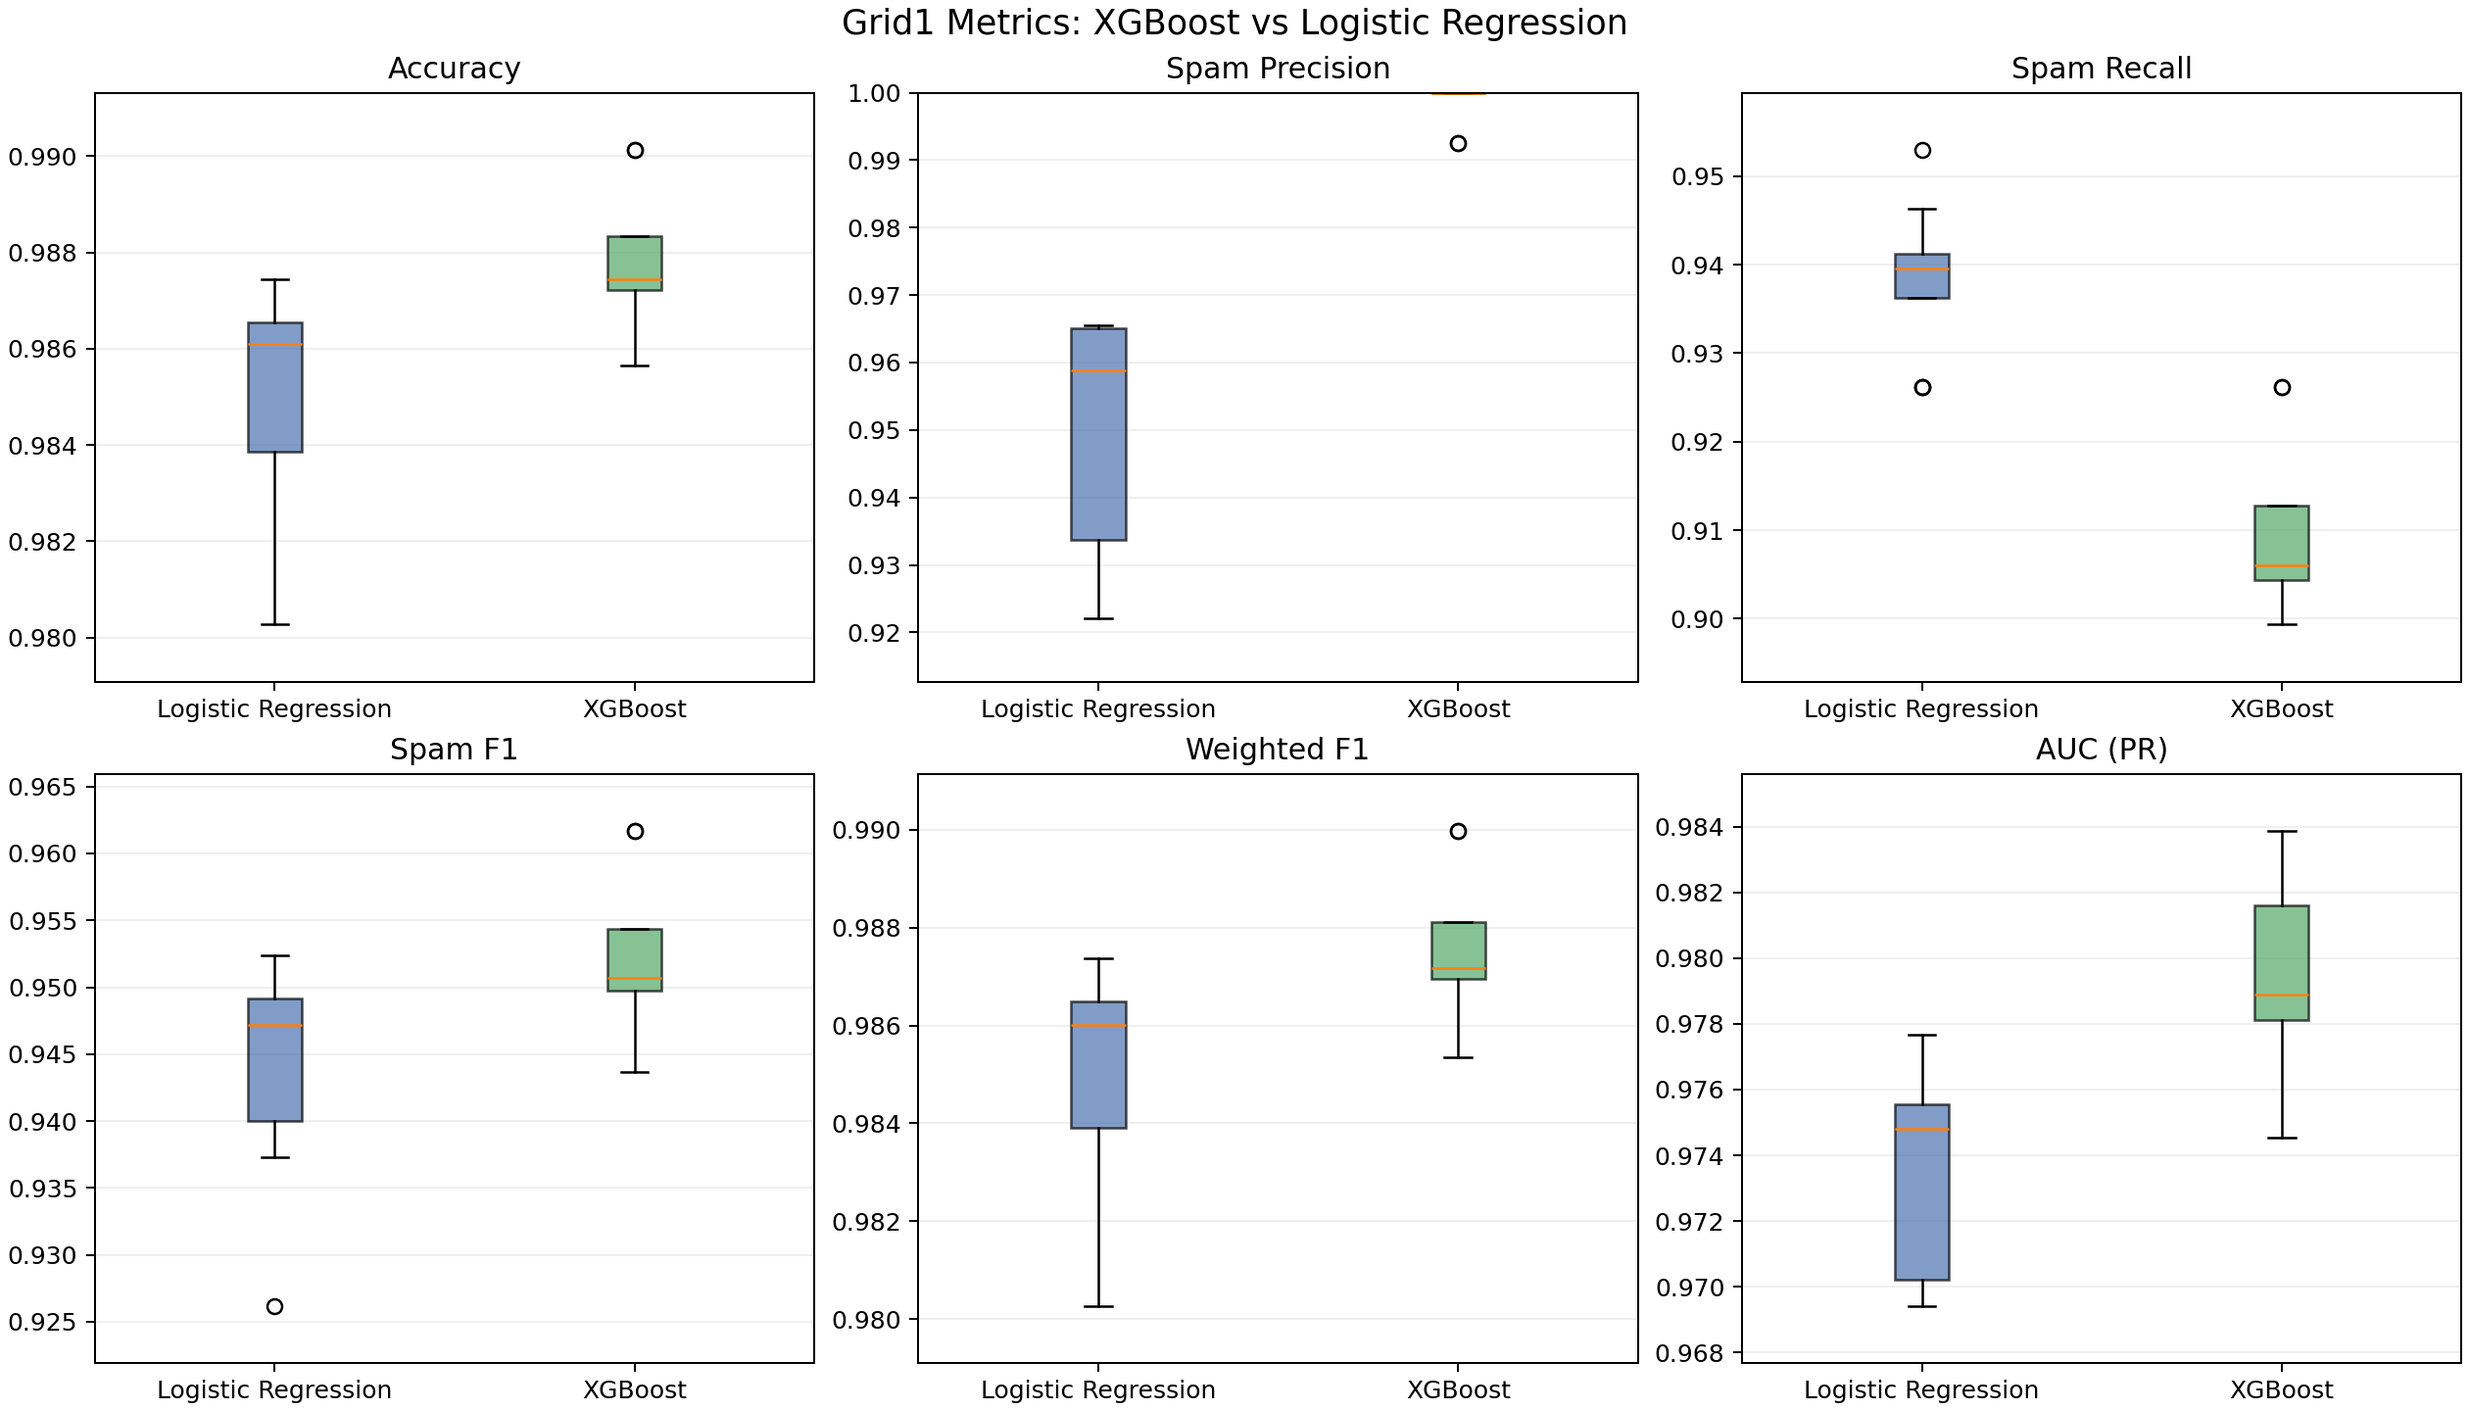
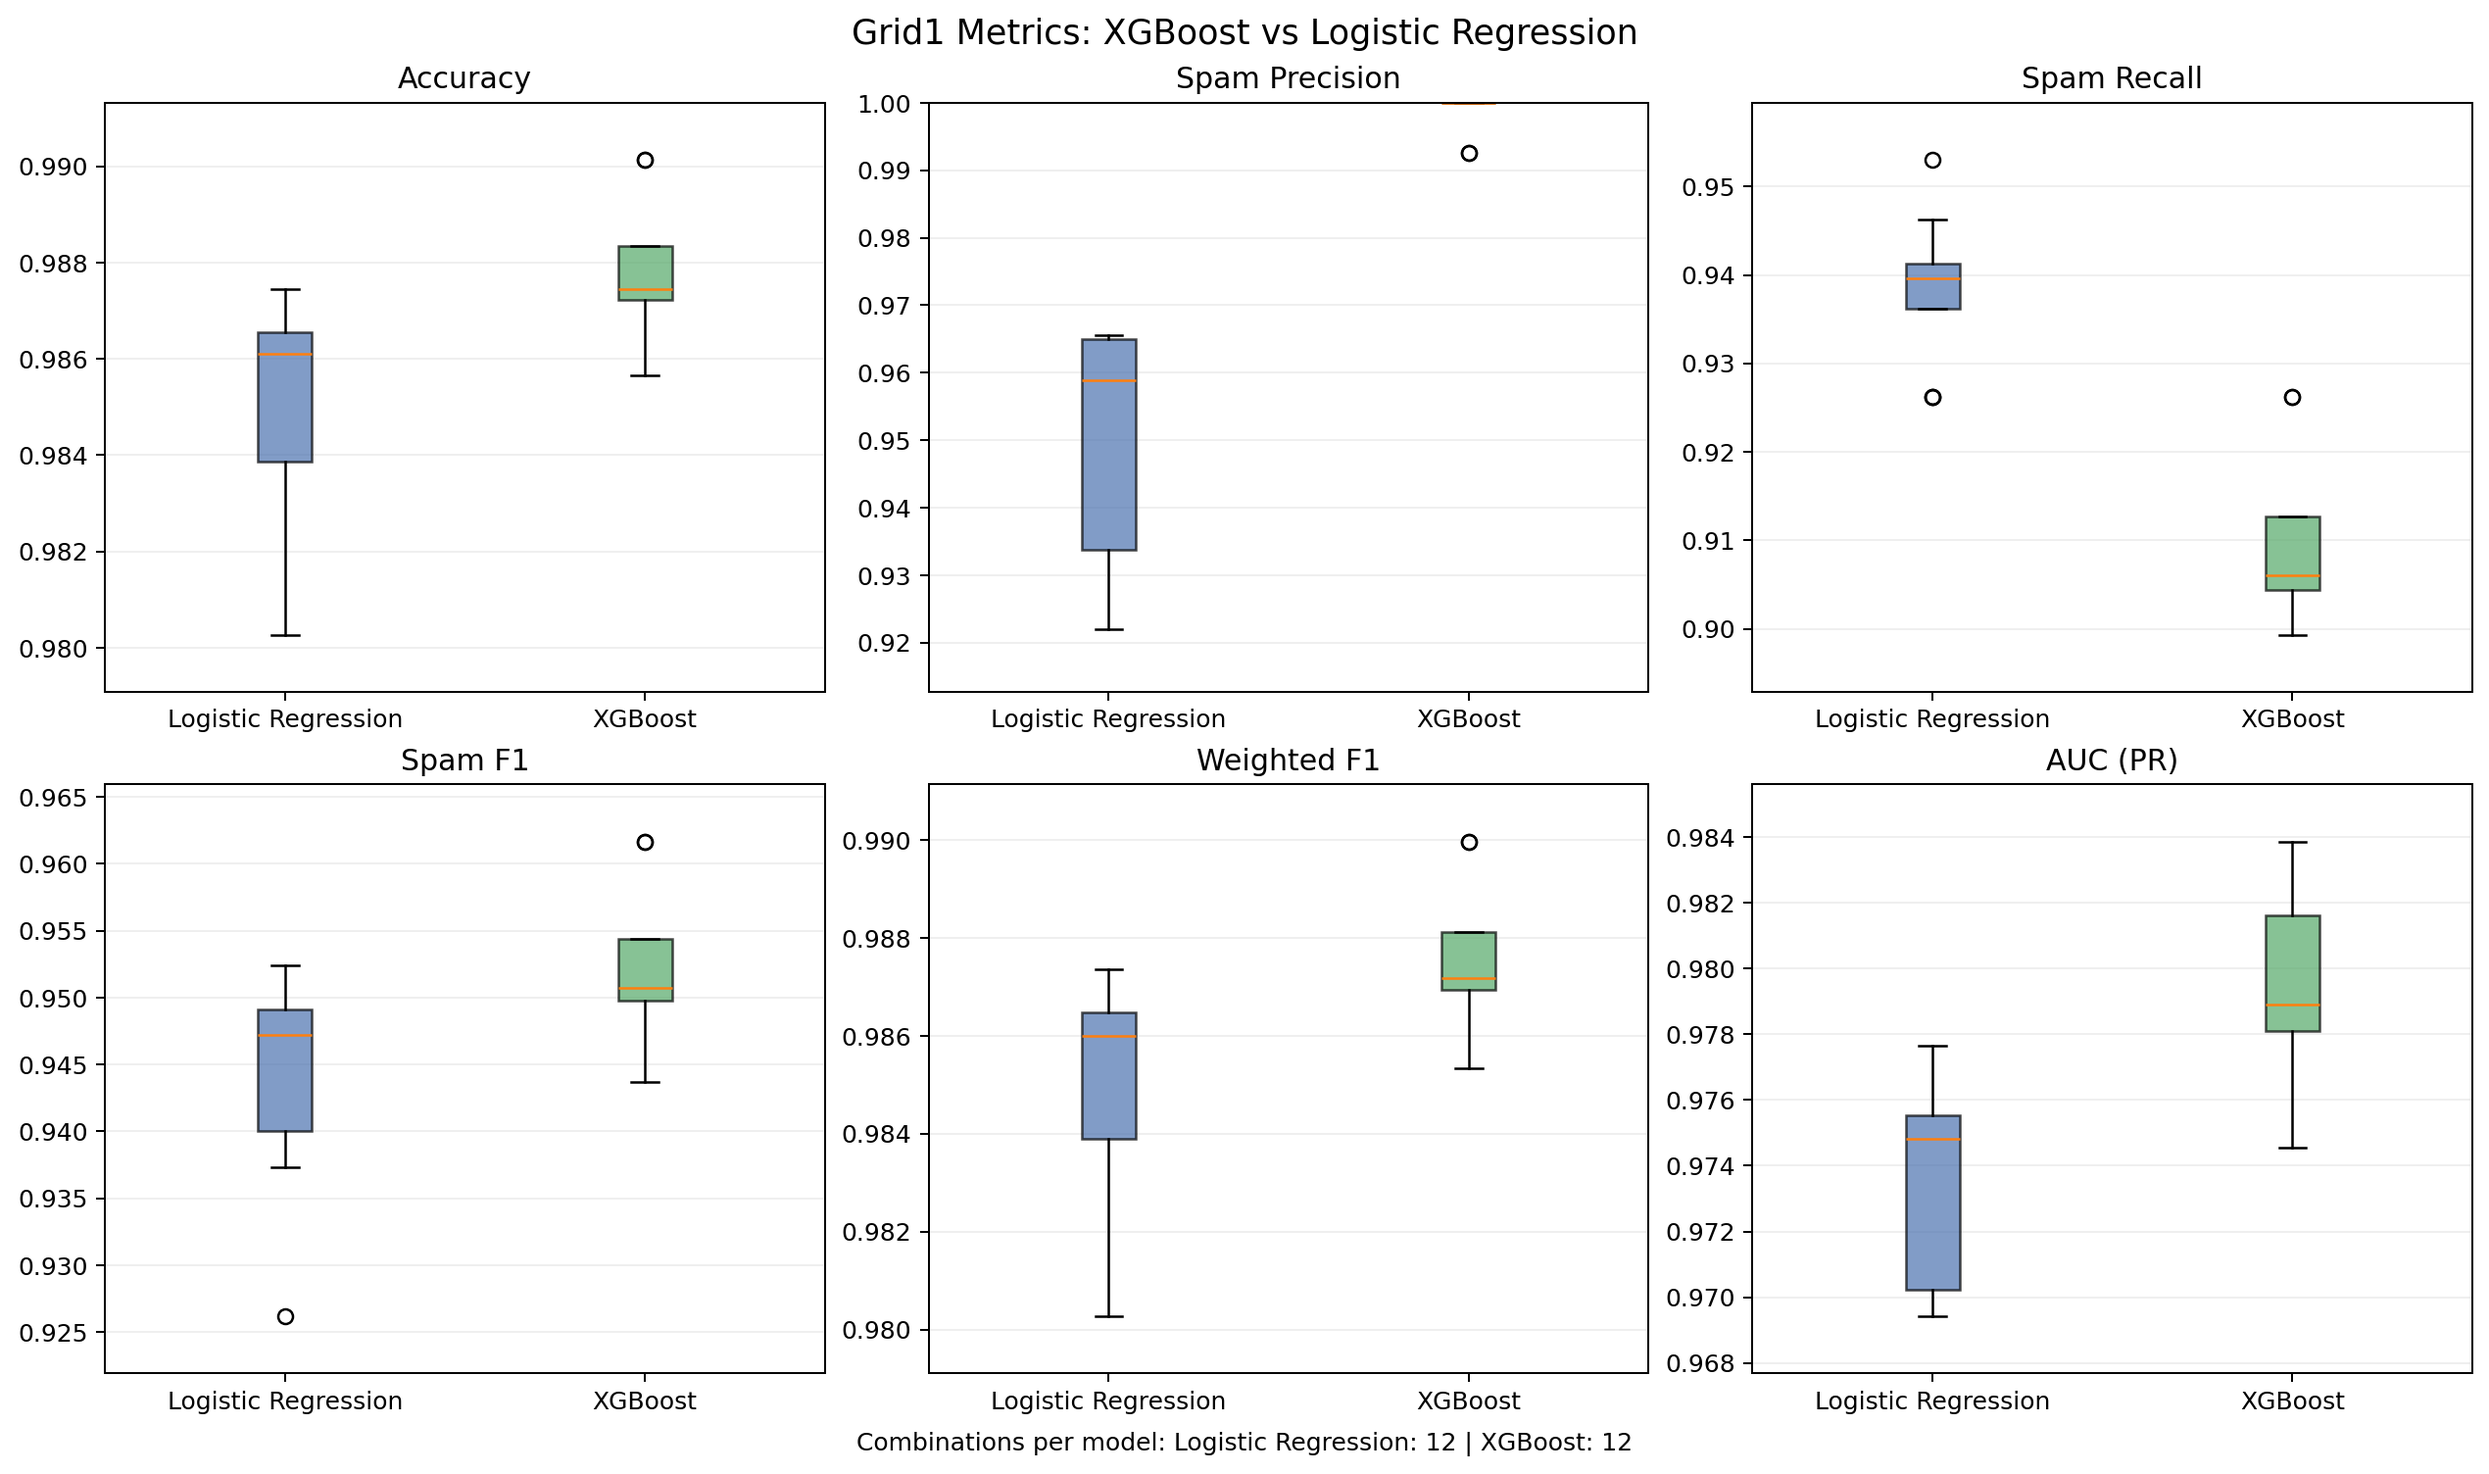
Enhance README.md with detailed explanation of winning model selection criteria and update boxplot generation to include combination counts per model. Modify load_model_scores and plot_boxplots functions to support new data structure.

diff --git a/src/plot_grid1_boxplots.py b/src/plot_grid1_boxplots.py
@@ -40,24 +40,32 @@ def parse_args() -> argparse.Namespace:
     return parser.parse_args()
 
 
-def load_model_scores(metrics_path: Path) -> dict[str, dict[str, list[float]]]:
+def load_model_scores(
+    metrics_path: Path,
+) -> tuple[dict[str, dict[str, list[float]]], dict[str, int]]:
     payload = json.loads(metrics_path.read_text(encoding="utf-8"))
     scores = {
         model: {metric_key: [] for metric_key, _ in METRICS}
         for model in MODEL_KEYS
     }
+    combination_counts = {model: 0 for model in MODEL_KEYS}
 
     for model in MODEL_KEYS:
         entries = payload.get(model, {})
+        combination_counts[model] = len(entries)
         for _, run_metrics in entries.items():
             for metric_key, _ in METRICS:
                 if metric_key in run_metrics:
                     scores[model][metric_key].append(run_metrics[metric_key])
 
-    return scores
+    return scores, combination_counts
 
 
-def plot_boxplots(scores: dict[str, dict[str, list[float]]], output_path: Path) -> None:
+def plot_boxplots(
+    scores: dict[str, dict[str, list[float]]],
+    combination_counts: dict[str, int],
+    output_path: Path,
+) -> None:
     fig, axes = plt.subplots(2, 3, figsize=(14, 8), constrained_layout=True)
     axes = axes.flatten()
 
@@ -88,17 +96,31 @@ def plot_boxplots(scores: dict[str, dict[str, list[float]]], output_path: Path) 
 
     output_path.parent.mkdir(parents=True, exist_ok=True)
     fig.suptitle("Grid1 Metrics: XGBoost vs Logistic Regression", fontsize=14)
-    fig.savefig(output_path, dpi=180)
+    combinations_text = "Combinations per model: " + " | ".join(
+        f"{MODEL_LABELS[model]}: {combination_counts[model]}" for model in model_order
+    )
+    footer_fontsize = 10
+    text_height_in_figure = (footer_fontsize / 72) / fig.get_figheight()
+    footer_y = 0.01 - (2 * text_height_in_figure)
+    fig.text(
+        0.5,
+        footer_y,
+        combinations_text,
+        ha="center",
+        va="bottom",
+        fontsize=footer_fontsize,
+    )
+    fig.savefig(output_path, dpi=180, bbox_inches="tight")
     plt.close(fig)
 
 
 def main() -> None:
     args = parse_args()
-    scores = load_model_scores(args.metrics_path)
-    plot_boxplots(scores, args.output)
+    scores, combination_counts = load_model_scores(args.metrics_path)
+    plot_boxplots(scores, combination_counts, args.output)
     print(f"Saved visualization to: {args.output}")
     for model in MODEL_KEYS:
-        n_runs = len(scores[model]["accuracy"])
+        n_runs = combination_counts[model]
         print(f"{MODEL_LABELS[model]} runs: {n_runs}")
 
 

diff --git a/README.md b/README.md
@@ -95,11 +95,12 @@ Typical outputs written by training/evaluation workflows:
 
 `grid1` runs compare both model families over the same preprocessing and vectorizer grid.
 
-![Grid1 model comparison boxplots](reports/grid1/model_boxplots.png)
-
 Key outcomes from `artifacts/grid1/metrics.json`:
 
-Winning runs from `artifacts/grid1/metrics.json`:
+![Grid1 model comparison boxplots](reports/grid1/model_boxplots.png)
+
+Winning runs from `artifacts/grid1/metrics.json` :
+The "winning" model was chosen by comparing all `grid1` runs and selecting the configuration with the strongest overall balance of spam F1, accuracy, and precision (minimizing false positives).
 
 | Model | Preprocessing | Vectorizer | Accuracy | Spam Precision | Spam Recall | Spam F1 |
 | --- | --- | --- | ---: | ---: | ---: | ---: |
